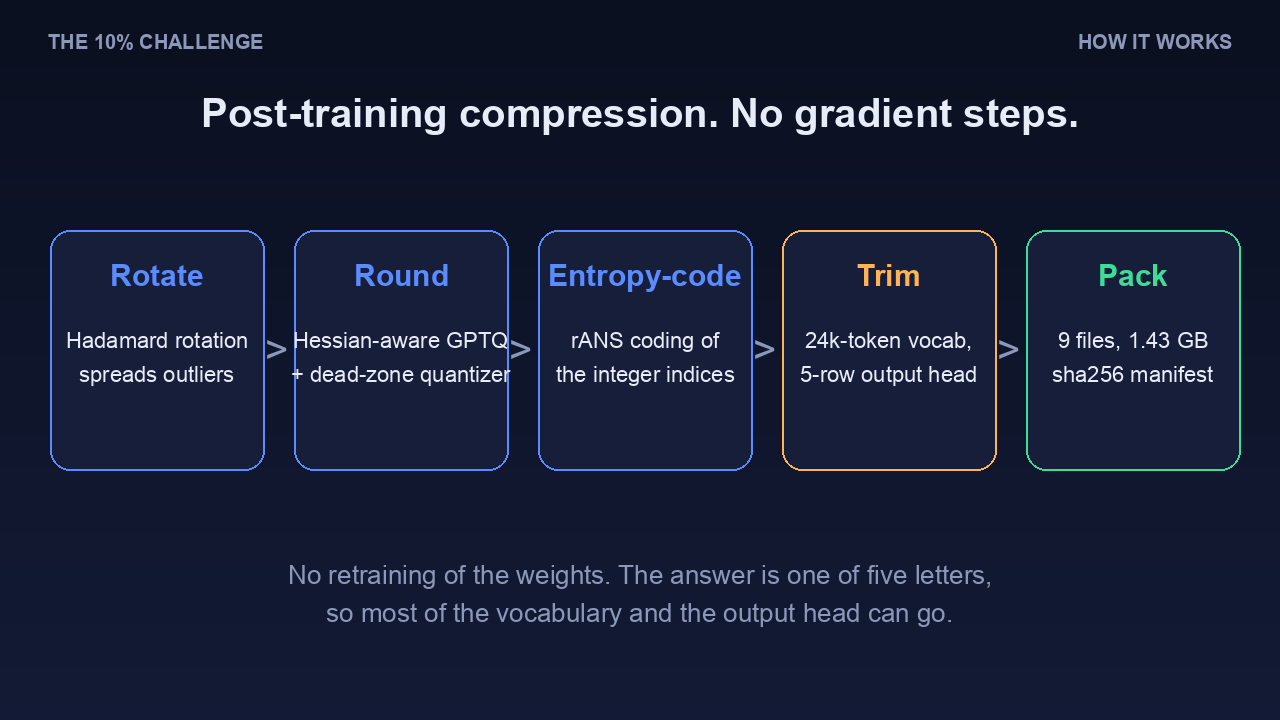
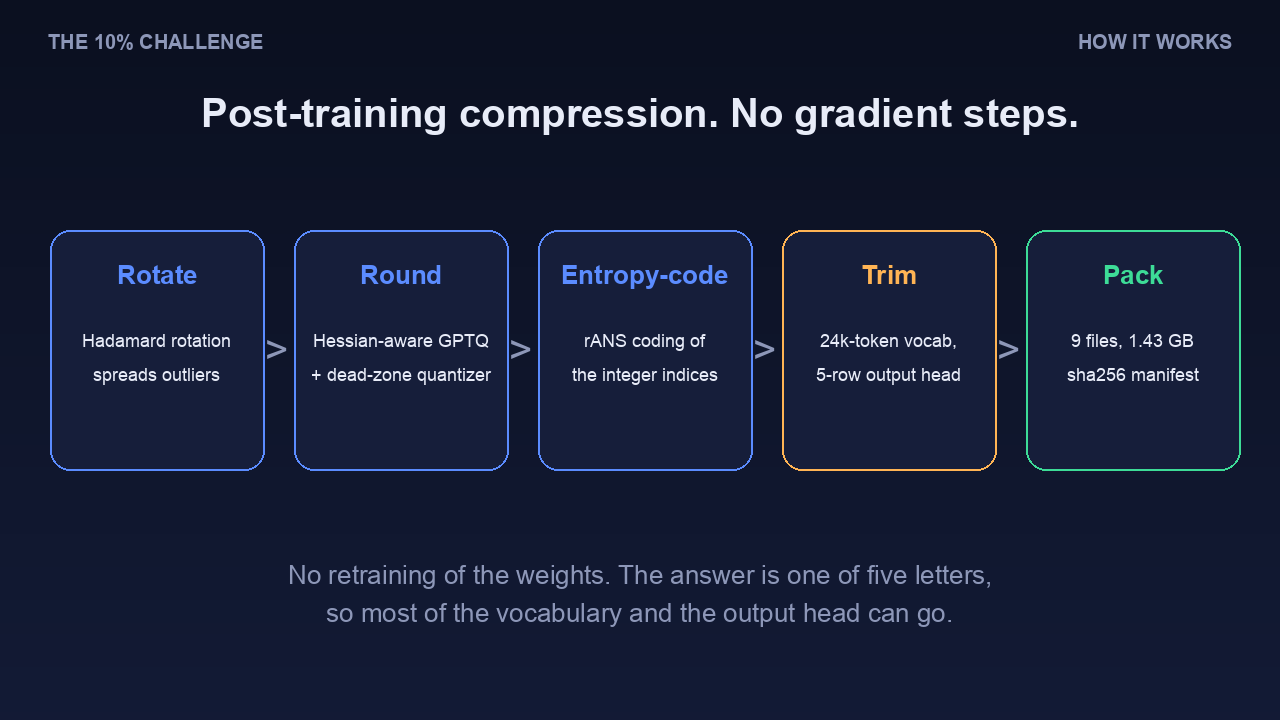
assets: task card, exam and feedback flow diagrams; fix pipeline text fit

diff --git a/v2/demo/make_assets.py b/v2/demo/make_assets.py
@@ -105,6 +105,25 @@ def frontier_png():
     f.im.save(f"{OUT}/frontier.png")
 
 
+def task_card_png():
+    D = json.load(open(os.path.join(os.path.dirname(__file__), "demo_outputs.json")))
+    e = next(x for x in D["examples"] if x["base"]["pred"] == x["gold_idx"] == x["ours"]["pred"] and "subarray" in x["query"])
+    f = Fr(bg)
+    title(f, "The task: pick the right tool", "a real query from the dev set; 4 confusable tools, or 'none fits'")
+    f.rrect((80, 150, W - 80, 640), CARD, 22)
+    f.text(116, 176, "QUERY", 18, MUT, bold=True, under=CARD)
+    h = f.wtext(116, 206, e["query"], 30, TXT, W - 232, bold=True, under=CARD)
+    for i, name in enumerate(e["options"]):
+        y = 206 + h + 26 + i * 62
+        gold = i == e["gold_idx"]
+        f.rrect((116, y, W - 116, y + 52), mix(CARD2, GRN, 0.18) if gold else CARD2, 12, under=CARD, outline=(GRN if gold else None))
+        f.text(136, y + 26, f"{'ABCDE'[i]}   {name}", 24, TXT, under=CARD2, anchor="lm", mono=True)
+        if gold:
+            f.text(W - 140, y + 26, "correct", 22, GRN, bold=True, under=CARD2, anchor="rm")
+    f.text(640, 680, "the answer is one of 5 letters: that is why the output head can shrink to 5 rows", 20, MUT, anchor="ma")
+    f.im.save(f"{OUT}/task_card.png")
+
+
 def pipeline_png():
     f = Fr(bg)
     D = {"meta": {}}
@@ -113,5 +132,5 @@ def pipeline_png():
 
 
 if __name__ == "__main__":
-    size_png(); results_png(); frontier_png(); pipeline_png()
+    size_png(); results_png(); frontier_png(); pipeline_png(); task_card_png()
     print("assets written:", sorted(os.listdir(OUT)))

diff --git a/v2/demo/make_video.py b/v2/demo/make_video.py
@@ -208,9 +208,9 @@ def s_how(f, t, d, D):
         a = rev(t, 1.0 + i * 3.0, 0.7)
         x = 50 + i * 244
         f.rrect((x, 230, x + 214, 470), CARD, 20, a=a, outline=col)
-        f.text(x + 107, 275, h, 30, col, bold=True, a=a, under=CARD, anchor="mm")
+        f.text(x + 107, 275, h, 26, col, bold=True, a=a, under=CARD, anchor="mm")
         for j, ln in enumerate(sub.split("\n")):
-            f.text(x + 107, 340 + j * 34, ln, 22, TXT, a=a, under=CARD, anchor="mm")
+            f.text(x + 107, 340 + j * 34, ln, 18, TXT, a=a, under=CARD, anchor="mm")
         if i < 4:
             f.text(x + 227, 350, ">", 40, MUT, a=a, anchor="mm")
     f.text(640, 560, "No retraining of the weights. The answer is one of five letters,", 26, MUT, a=rev(t, 14), anchor="ma")
